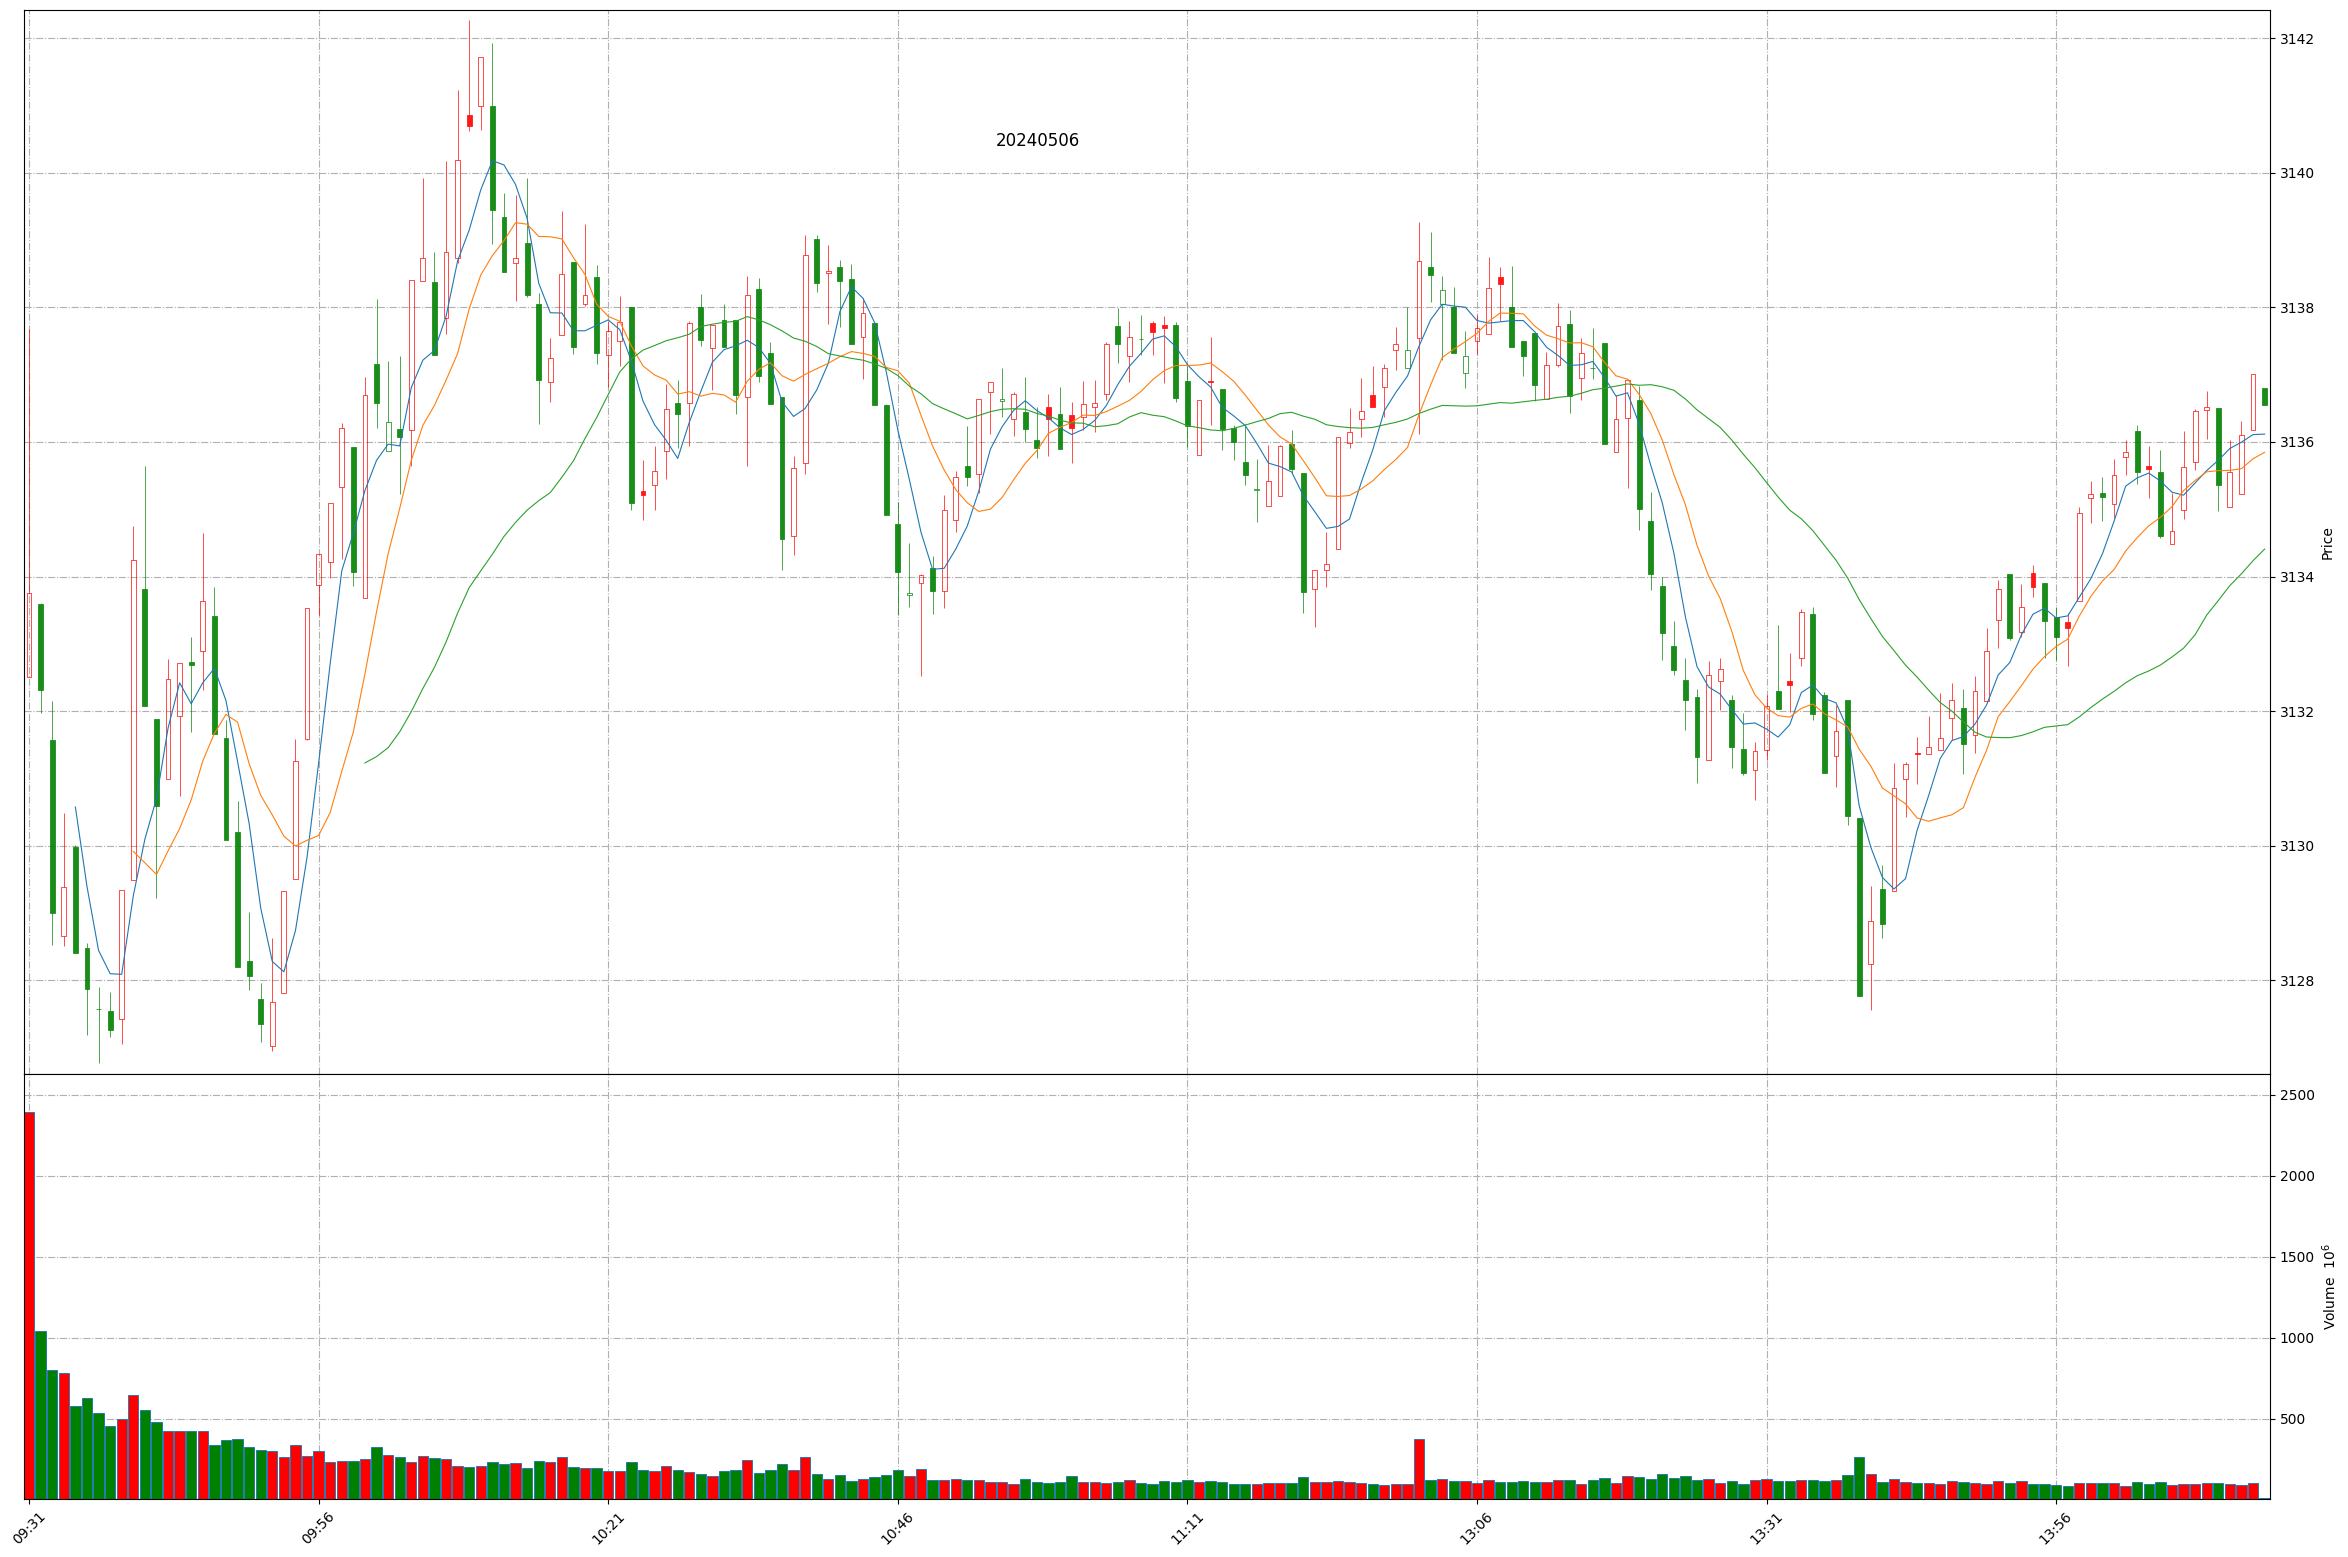
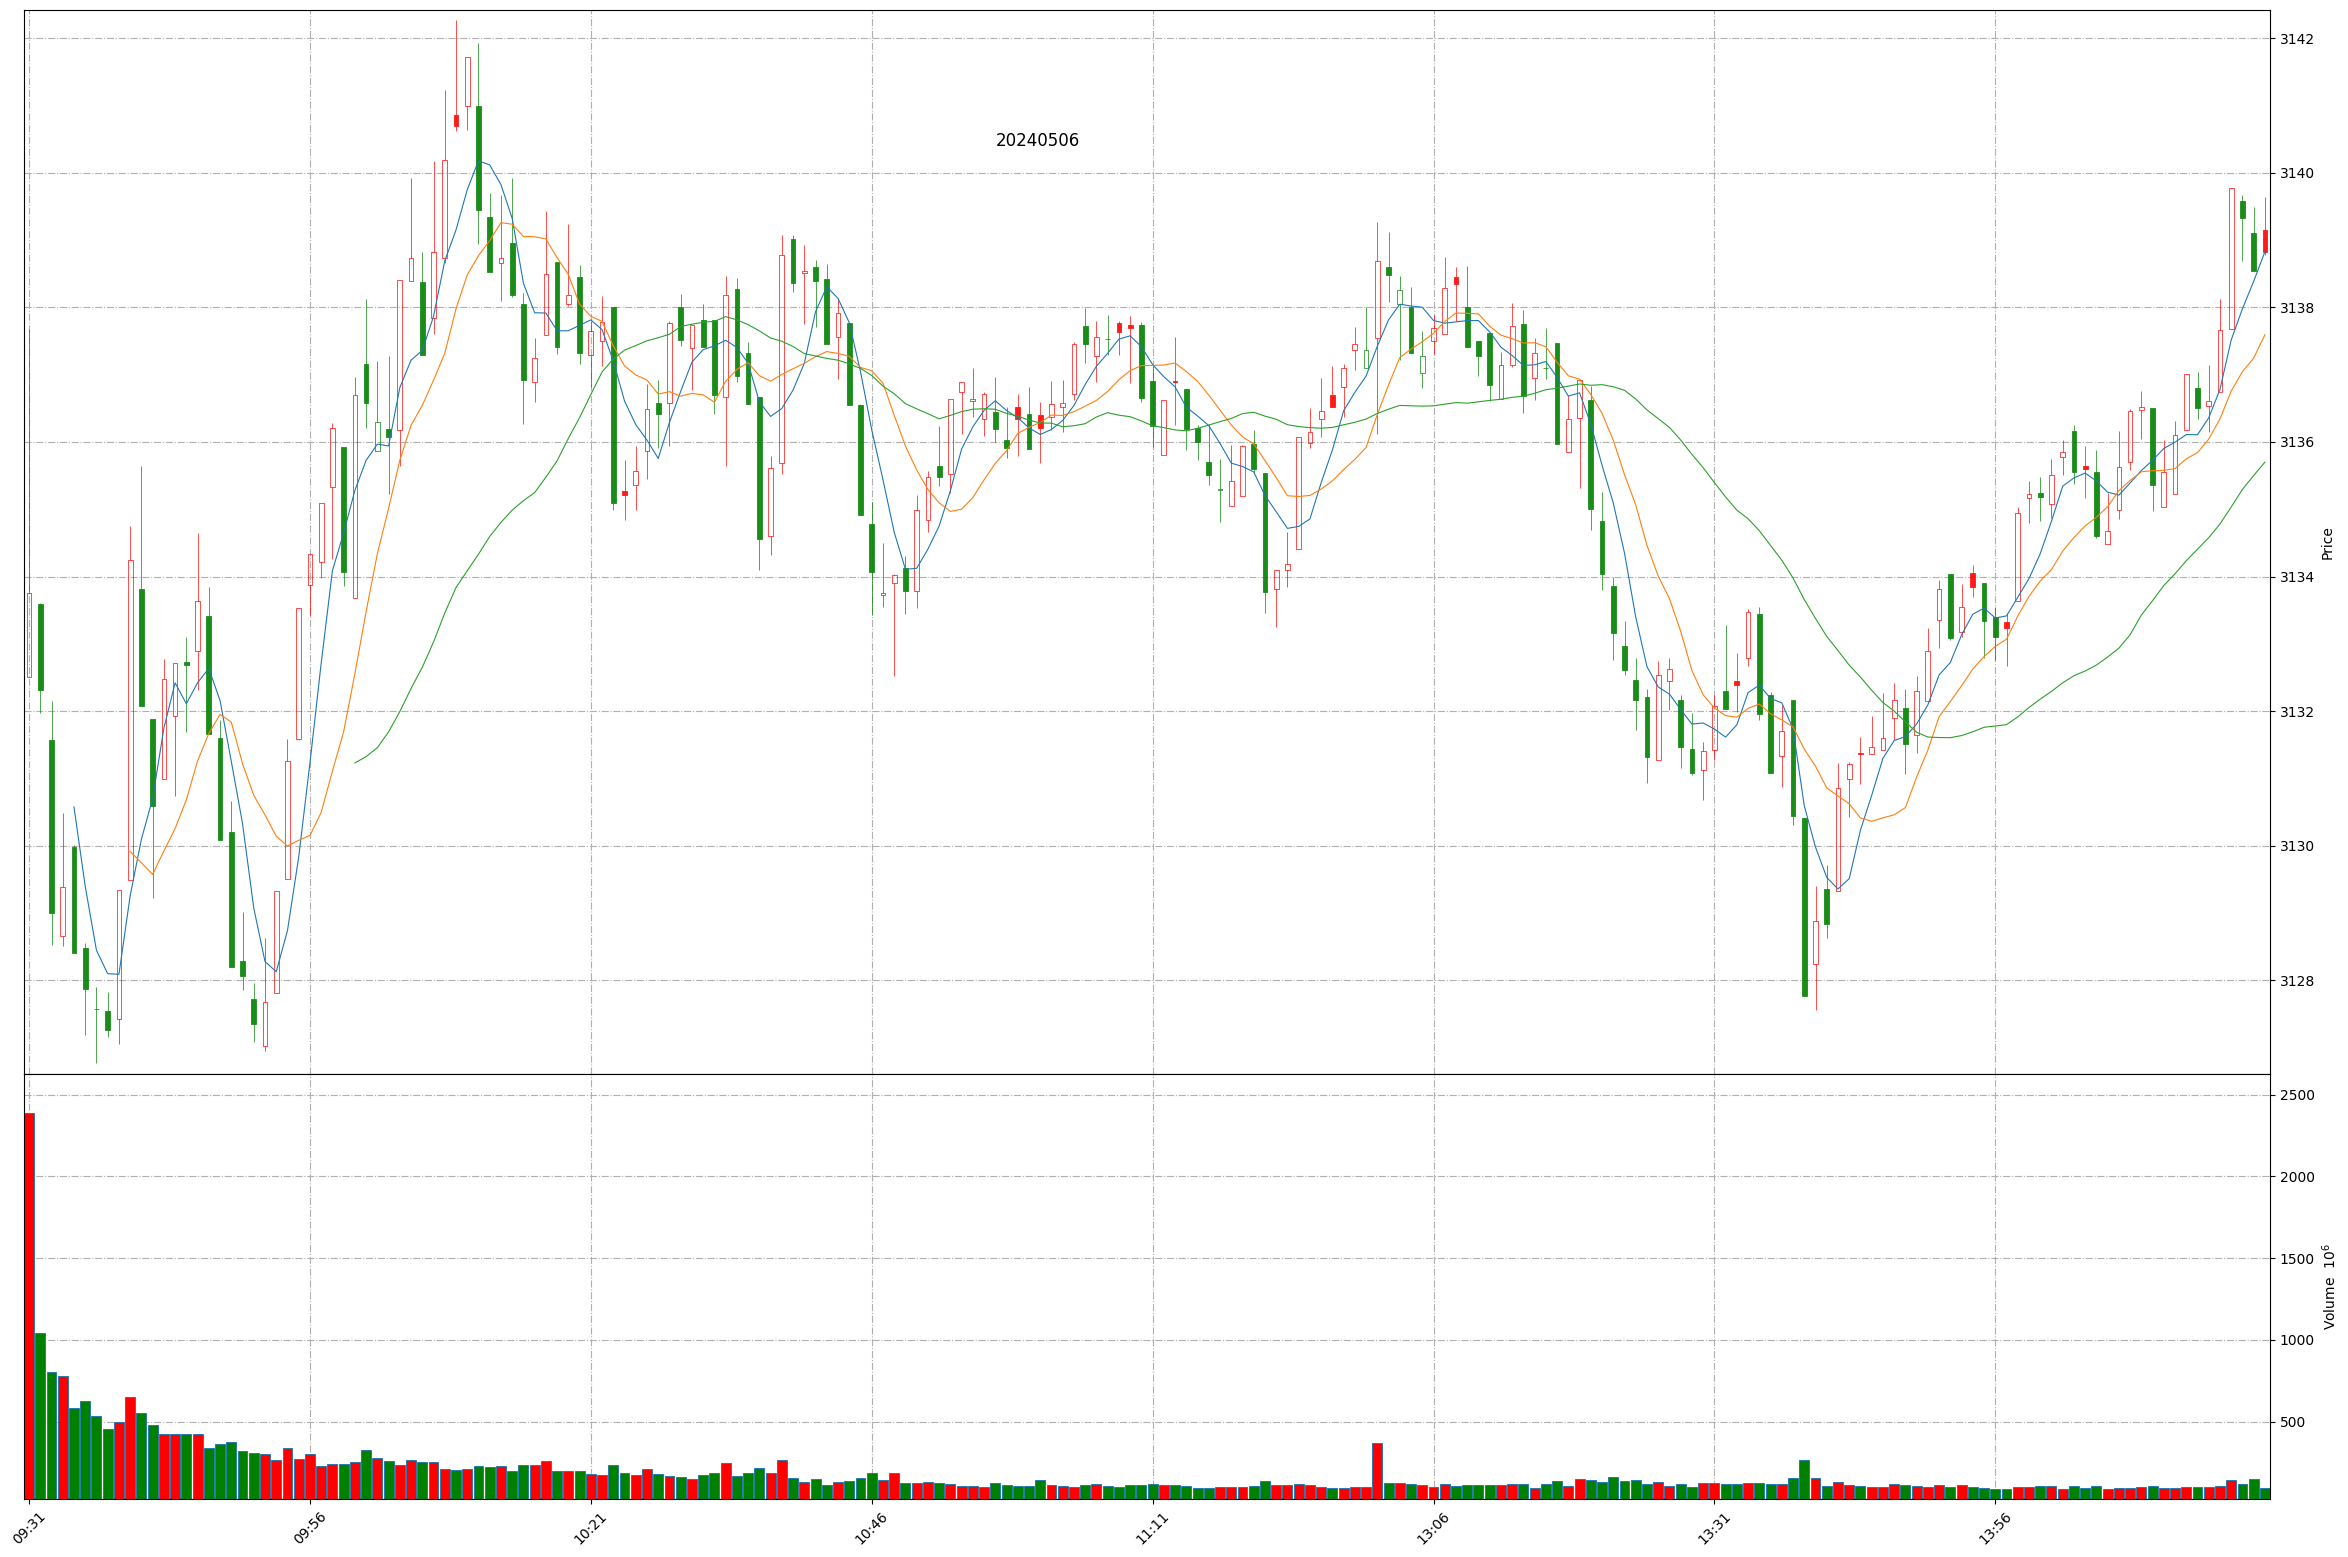
Github action update at 2024-05-06 14:20:12.

Changed region(s): [[0.0311, 0.0617, 0.9638, 0.6782], [0.0, 0.894, 0.9638, 0.9865], [0.9327, 0.1541, 0.9638, 0.185]]

diff --git a/README.md b/README.md
@@ -1,11 +1,11 @@
 
 # Daily-A-share-market-quotes 每日 A 股指数（5min 更新）- 20240506
 
-### 上证指数 20240506 14:13
+### 上证指数 20240506 14:20
 ![](./fig/2024/5/20240506-sh000001.png)
 
-### 深证成指 20240506 14:13
+### 深证成指 20240506 14:20
 ![](./fig/2024/5/20240506-sz399001.png)
 
-### 北证50 20240506 14:13
+### 北证50 20240506 14:20
 ![](./fig/2024/5/20240506-bj899050.png)
